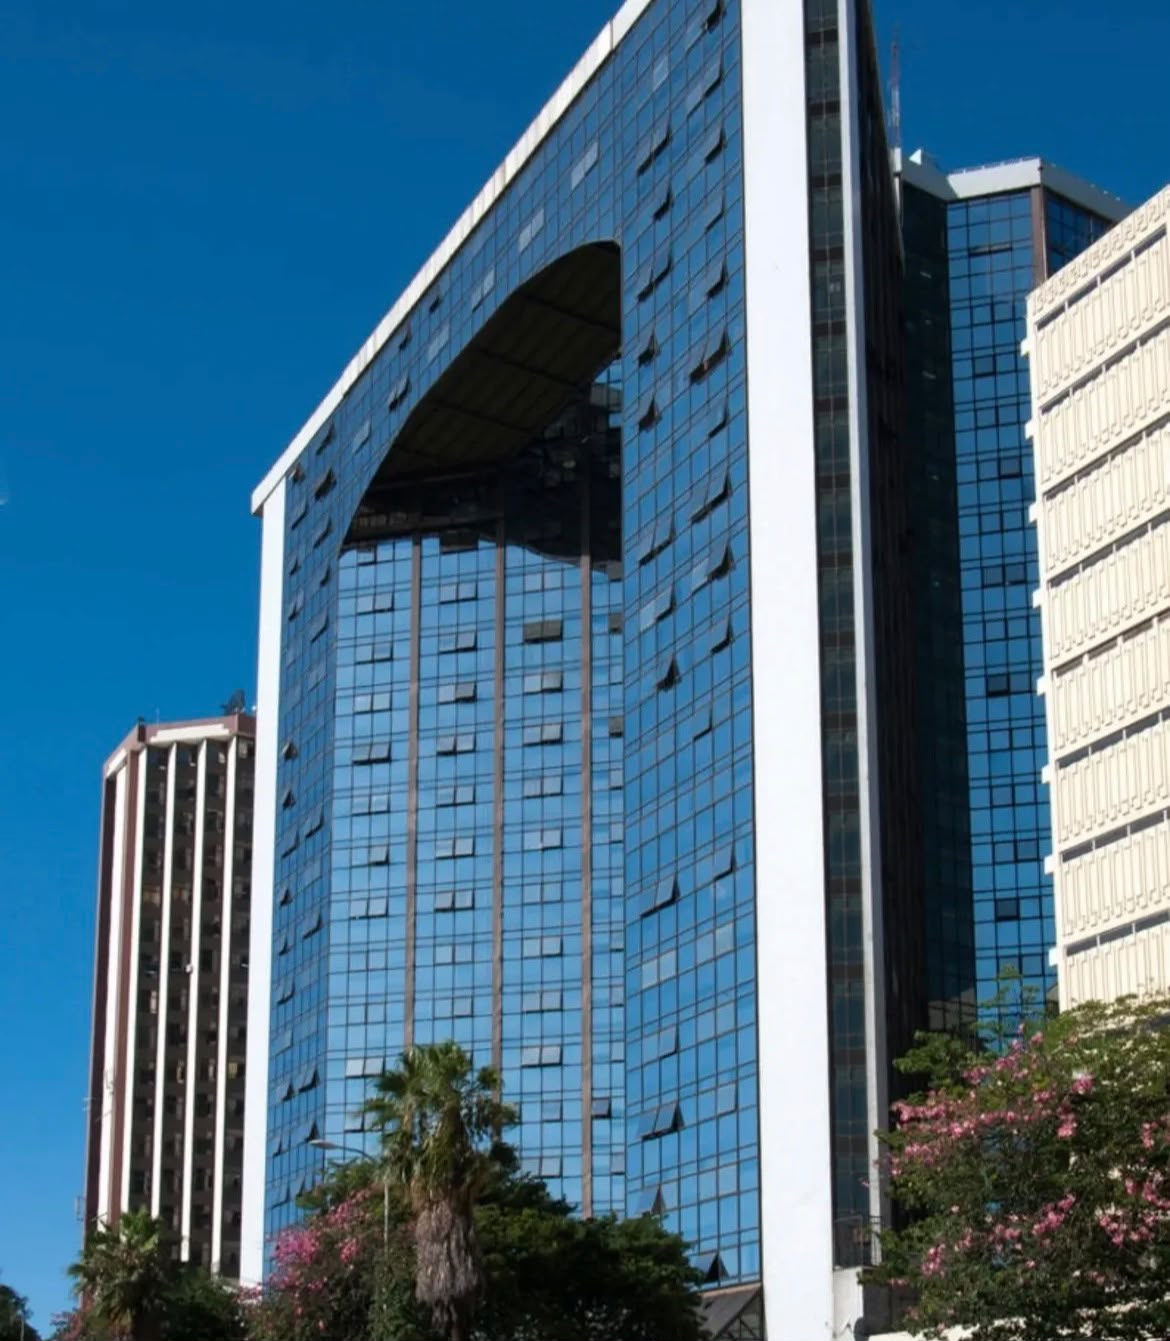
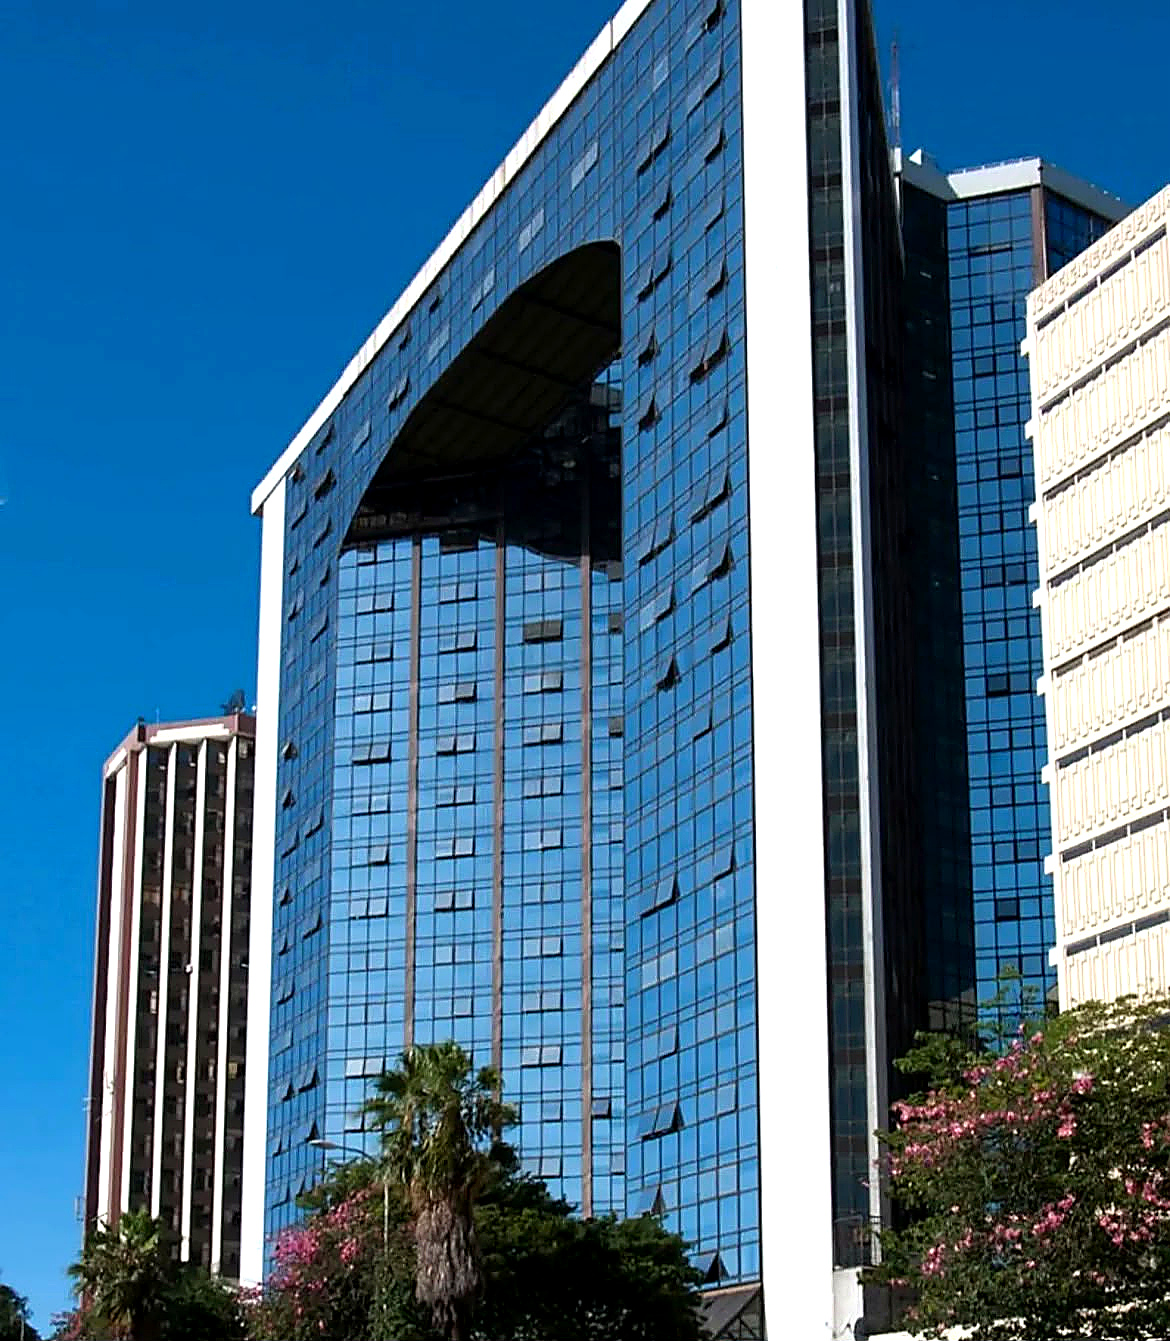
feat(media): enhance image sharpness, color grading, and card framing across sector heroes

Changed region(s): [[0.0, 0.0, 0.6769, 1.0], [0.6769, 0.0, 1.0, 1.0], [0.7692, 0.0917, 0.8, 0.1223]]

diff --git a/airbnb-security/index.html b/airbnb-security/index.html
@@ -30,7 +30,7 @@
 <link rel="preconnect" href="https://fonts.gstatic.com" crossorigin/>
 <link rel="stylesheet" href="https://fonts.googleapis.com/css2?family=Geist:wght@400;500;600;700&amp;display=swap"/>
 
-<link rel="stylesheet" href="/style.css?v=20260816g"/>
+<link rel="stylesheet" href="/style.css?v=20260816h"/>
 <script type="application/ld+json">{"@context":"https://schema.org","@type":"SecurityService","name":"Urban Eye Security","url":"https://urbaneyesecurity.co.ke/","logo":"https://urbaneyesecurity.co.ke/urban-eye-assets/Icon-only%20version.png","telephone":"+254 768 055 555","email":"info@urbaneyesecurity.co.ke","address":{"@type":"PostalAddress","streetAddress":"St. Ellis, Wabera Street, Nairobi CBD","addressLocality":"Nairobi","addressCountry":"KE"},"areaServed":["Nairobi","Kenya"],"slogan":"Smart Protection. Human Response."}</script>
 <script type="application/ld+json">{"@context":"https://schema.org","@type":"Service","name":"Airbnb & Short-Stay Security in Kenya","description":"Privacy-conscious security for short-stay properties, serviced apartments, furnished rentals, guest houses, and Airbnb hosts.","provider":{"@type":"Organization","name":"Urban Eye Security"},"areaServed":{"@type":"Country","name":"Kenya"},"serviceType":"Short-Stay Property Security","url":"https://urbaneyesecurity.co.ke/airbnb-security/"}</script>
 <script type="application/ld+json">{"@context":"https://schema.org","@type":"FAQPage","mainEntity":[{"@type":"Question","name":"Can I install cameras inside an Airbnb?","acceptedAnswer":{"@type":"Answer","text":"Urban Eye does not recommend indoor cameras for Airbnb-style guest spaces. The focus is exterior visibility, access control, emergency alerts, and guest-friendly protection."}},{"@type":"Question","name":"Can each guest get a unique access code?","acceptedAnswer":{"@type":"Answer","text":"Yes. Keyless access can allow temporary guest codes that are easier to change, revoke, or manage than physical keys."}},{"@type":"Question","name":"Can this help when the unit is vacant?","acceptedAnswer":{"@type":"Answer","text":"Yes. Door alerts, intrusion detection, fire alerts, and monitoring options can help protect the property between bookings."}},{"@type":"Question","name":"Do I need a site survey?","acceptedAnswer":{"@type":"Answer","text":"Yes. Every apartment, estate, access route, and host routine is different. A site review helps Urban Eye recommend the right setup."}}]}</script>
@@ -1012,6 +1012,6 @@
 </main>
 
 <div id="site-footer"></div>
-<script src="/js/includes.js?v=20260816g" defer></script>
+<script src="/js/includes.js?v=20260816h" defer></script>
 </body>
 </html>

diff --git a/corporate-risk-audit/index.html b/corporate-risk-audit/index.html
@@ -35,7 +35,7 @@
   <link rel="preconnect" href="https://fonts.gstatic.com" crossorigin/>
   <link rel="stylesheet" href="https://fonts.googleapis.com/css2?family=Geist:wght@400;500;600;700&amp;display=swap"/>
   
-  <link rel="stylesheet" href="/style.css?v=20260816g"/>
+  <link rel="stylesheet" href="/style.css?v=20260816h"/>
 
   <script type="application/ld+json">
   {"@context":"https://schema.org","@type":"SecurityService","name":"Urban Eye Security","url":"https://urbaneyesecurity.co.ke/","logo":"https://urbaneyesecurity.co.ke/urban-eye-assets/Icon-only%20version.png","telephone":"+254 768 055 555","email":"info@urbaneyesecurity.co.ke","address":{"@type":"PostalAddress","streetAddress":"St. Ellis, Wabera Street, Nairobi CBD","addressLocality":"Nairobi","addressCountry":"KE"},"areaServed":["Nairobi","Kenya"],"slogan":"Smart Protection. Human Response."}
@@ -62,11 +62,11 @@
 <main>
   <!-- Hero Section -->
   <section class="page-hero">
-    <div class="container hero-grid">
-      <div class="hero-content">
+    <div class="container sector-hero-inner">
+      <div class="sector-hero-copy reveal-up">
         <p class="section-label">Corporate Risk Audit</p>
         <h1>A written security report before you buy equipment.</h1>
-        <p class="hero-copy" style="font-size:17px; line-height:1.65; color:rgba(255,255,255,.9); margin-bottom:28px;">
+        <p style="font-size:17px; line-height:1.65; color:rgba(255,255,255,.9); margin-bottom:28px;">
           Urban Eye's Corporate Risk Audit is a documented site survey for commercial premises, logistics yards, construction sites, and estates needing rigorous risk visibility before allocating capital.
         </p>
 
@@ -80,15 +80,14 @@
         </div>
       </div>
 
-      <div class="hero-photo reveal-up">
+      <div class="sector-hero-visual reveal-up reveal-delay-1">
         <img
-          src="/urban-eye-assets/nairobi-commercial-skyline.jpg"
+          src="/urban-eye-assets/nairobi-commercial-skyline.webp"
           alt="Nairobi commercial skyline and business district corporate risk evaluation"
-          width="800"
-          height="600"
+          width="1170"
+          height="1341"
           loading="eager"
           decoding="async"
-          style="border-radius:14px; width:100%; height:auto; object-fit:cover; box-shadow:0 20px 40px rgba(0,0,0,0.3);"
         >
       </div>
     </div>
@@ -310,6 +309,6 @@
 </main>
 
   <div id="site-footer"></div>
-  <script src="/js/includes.js?v=20260816g" defer></script>
+  <script src="/js/includes.js?v=20260816h" defer></script>
 </body>
 </html>

diff --git a/residential-security/index.html b/residential-security/index.html
@@ -29,7 +29,7 @@
 <link rel="preconnect" href="https://fonts.gstatic.com" crossorigin/>
 <link rel="stylesheet" href="https://fonts.googleapis.com/css2?family=Geist:wght@400;500;600;700&amp;display=swap"/>
 
-<link rel="stylesheet" href="/style.css?v=20260816g"/>
+<link rel="stylesheet" href="/style.css?v=20260816h"/>
 
 <script type="application/ld+json">
 {
@@ -120,25 +120,24 @@
 
 <main>
   <section class="page-hero">
-    <div class="container hero-grid">
-      <div class="hero-content">
+    <div class="container sector-hero-inner">
+      <div class="sector-hero-copy reveal-up">
         <p class="section-label">Residential Estates &amp; Private Compounds</p>
         <h1>Layered perimeter detection and access control for gated estates and private residences.</h1>
-        <p class="hero-copy">A perimeter wall and a gate guard are not enough. Urban Eye engineers layered protection for gated communities, townhouses, private compounds, and family residences using smart wireless alarms, CCTV, and mobile alerts.</p>
+        <p>A perimeter wall and a gate guard are not enough. Urban Eye engineers layered protection for gated communities, townhouses, private compounds, and family residences using smart wireless alarms, CCTV, and mobile alerts.</p>
         <div class="hero-actions">
           <a onclick="return openServiceDrawer('residential-security','Residential Security','Design Your Protection Plan','Share a few details and Urban Eye will design layered protection for your home.')" class="btn btn-primary" href="/contact/?service=residential">Design Your Protection Plan</a>
           <a class="btn btn-outline-white" href="https://wa.me/254768055555">Chat on WhatsApp</a>
         </div>
       </div>
-      <div class="hero-photo reveal-up">
+      <div class="sector-hero-visual reveal-up reveal-delay-1">
         <img
-          src="/urban-eye-assets/nairobi-residential-estate.jpg"
+          src="/urban-eye-assets/nairobi-residential-estate.webp"
           alt="Gated townhouse community and residential estate security in Nairobi"
-          width="800"
-          height="600"
+          width="963"
+          height="1280"
           loading="eager"
           decoding="async"
-          style="border-radius:14px; width:100%; height:auto; object-fit:cover; box-shadow:0 20px 40px rgba(0,0,0,0.3);"
         >
       </div>
     </div>
@@ -299,6 +298,6 @@
   </section>
 </main>
 <div id="site-footer"></div>
-<script src="/js/includes.js?v=20260816g" defer></script>
+<script src="/js/includes.js?v=20260816h" defer></script>
 </body>
 </html>

diff --git a/office-security/index.html b/office-security/index.html
@@ -35,7 +35,7 @@
 <link rel="preconnect" href="https://fonts.gstatic.com" crossorigin/>
 <link rel="stylesheet" href="https://fonts.googleapis.com/css2?family=Geist:wght@400;500;600;700&amp;display=swap"/>
 
-<link rel="stylesheet" href="/style.css?v=20260816g"/>
+<link rel="stylesheet" href="/style.css?v=20260816h"/>
 <script type="application/ld+json">
 {"@context":"https://schema.org","@type":"SecurityService","name":"Urban Eye Security","url":"https://urbaneyesecurity.co.ke/","logo":"https://urbaneyesecurity.co.ke/urban-eye-assets/Icon-only%20version.png","telephone":"+254 768 055 555","email":"info@urbaneyesecurity.co.ke","address":{"@type":"PostalAddress","streetAddress":"St. Ellis, Wabera Street, Nairobi CBD","addressLocality":"Nairobi","addressCountry":"KE"},"areaServed":["Nairobi","Kenya"],"slogan":"Smart Protection. Human Response."}
 </script>
@@ -468,10 +468,10 @@
 
         <div class="office-hero-visual reveal-up reveal-delay-1">
           <img
-            src="/urban-eye-assets/nairobi-commercial-tower.jpg"
+            src="/urban-eye-assets/nairobi-commercial-tower.webp"
             alt="Modern commercial office tower and corporate business park in Nairobi"
-            width="800"
-            height="600"
+            width="1170"
+            height="1355"
             loading="eager"
             decoding="async"
           >
@@ -656,6 +656,6 @@
 
   <div id="site-footer"></div>
 
-  <script src="/js/includes.js?v=20260816g" defer></script>
+  <script src="/js/includes.js?v=20260816h" defer></script>
 </body>
 </html>

diff --git a/contact/index.html b/contact/index.html
@@ -35,7 +35,7 @@
 <link rel="preconnect" href="https://fonts.gstatic.com" crossorigin/>
 <link rel="stylesheet" href="https://fonts.googleapis.com/css2?family=Geist:wght@400;500;600;700&amp;display=swap"/>
 
-<link rel="stylesheet" href="/style.css?v=20260816g"/>
+<link rel="stylesheet" href="/style.css?v=20260816h"/>
 <script type="application/ld+json">
 {"@context":"https://schema.org","@type":"SecurityService","name":"Urban Eye Security","url":"https://urbaneyesecurity.co.ke/","logo":"https://urbaneyesecurity.co.ke/urban-eye-assets/Icon-only%20version.png","telephone":"+254 768 055 555","email":"info@urbaneyesecurity.co.ke","address":{"@type":"PostalAddress","streetAddress":"St. Ellis, Wabera Street, Nairobi CBD","addressLocality":"Nairobi","addressCountry":"KE"},"areaServed":["Nairobi","Kenya"],"slogan":"Smart Protection. Human Response."}
 </script>
@@ -441,6 +441,6 @@ document.addEventListener("DOMContentLoaded", () => {
   goToFormStep(1, CONTACT_FORM_CONFIG);
 });
 </script>
-<script src="/js/includes.js?v=20260816g" defer></script>
+<script src="/js/includes.js?v=20260816h" defer></script>
 </body>
 </html>

diff --git a/cctv-installation/index.html b/cctv-installation/index.html
@@ -35,7 +35,7 @@
 <link rel="preconnect" href="https://fonts.gstatic.com" crossorigin/>
 <link rel="stylesheet" href="https://fonts.googleapis.com/css2?family=Geist:wght@400;500;600;700&amp;display=swap"/>
 
-<link rel="stylesheet" href="/style.css?v=20260816g"/>
+<link rel="stylesheet" href="/style.css?v=20260816h"/>
 <script type="application/ld+json">
 {"@context":"https://schema.org","@type":"SecurityService","name":"Urban Eye Security","url":"https://urbaneyesecurity.co.ke/","logo":"https://urbaneyesecurity.co.ke/urban-eye-assets/Icon-only%20version.png","telephone":"+254 768 055 555","email":"info@urbaneyesecurity.co.ke","address":{"@type":"PostalAddress","streetAddress":"St. Ellis, Wabera Street, Nairobi CBD","addressLocality":"Nairobi","addressCountry":"KE"},"areaServed":["Nairobi","Kenya"],"slogan":"Smart Protection. Human Response."}
 </script>
@@ -243,6 +243,6 @@
     </section>
   </main>
 <div id="site-footer"></div>
-<script src="/js/includes.js?v=20260816g" defer></script>
+<script src="/js/includes.js?v=20260816h" defer></script>
 </body>
 </html>

diff --git a/access-control/index.html b/access-control/index.html
@@ -30,7 +30,7 @@
 <link rel="preconnect" href="https://fonts.gstatic.com" crossorigin/>
 <link rel="stylesheet" href="https://fonts.googleapis.com/css2?family=Geist:wght@400;500;600;700&amp;display=swap"/>
 
-<link rel="stylesheet" href="/style.css?v=20260816g"/>
+<link rel="stylesheet" href="/style.css?v=20260816h"/>
 <script type="application/ld+json">
 {"@context":"https://schema.org","@type":"SecurityService","name":"Urban Eye Security","url":"https://urbaneyesecurity.co.ke/","logo":"https://urbaneyesecurity.co.ke/urban-eye-assets/Icon-only%20version.png","telephone":"+254 768 055 555","email":"info@urbaneyesecurity.co.ke","address":{"@type":"PostalAddress","streetAddress":"St. Ellis, Wabera Street, Nairobi CBD","addressLocality":"Nairobi","addressCountry":"KE"},"areaServed":["Nairobi","Kenya"],"slogan":"Smart Protection. Human Response."}
 </script>
@@ -750,6 +750,6 @@
   </section>
 </main>
 <div id="site-footer"></div>
-<script src="/js/includes.js?v=20260816g" defer></script>
+<script src="/js/includes.js?v=20260816h" defer></script>
 </body>
 </html>

diff --git a/professional-monitoring/index.html b/professional-monitoring/index.html
@@ -35,7 +35,7 @@
 <link rel="preconnect" href="https://fonts.gstatic.com" crossorigin/>
 <link rel="stylesheet" href="https://fonts.googleapis.com/css2?family=Geist:wght@400;500;600;700&amp;display=swap"/>
 
-<link rel="stylesheet" href="/style.css?v=20260816g"/>
+<link rel="stylesheet" href="/style.css?v=20260816h"/>
 <script type="application/ld+json">
 {"@context":"https://schema.org","@type":"SecurityService","name":"Urban Eye Security","url":"https://urbaneyesecurity.co.ke/","logo":"https://urbaneyesecurity.co.ke/urban-eye-assets/Icon-only%20version.png","telephone":"+254 768 055 555","email":"info@urbaneyesecurity.co.ke","address":{"@type":"PostalAddress","streetAddress":"St. Ellis, Wabera Street, Nairobi CBD","addressLocality":"Nairobi","addressCountry":"KE"},"areaServed":["Nairobi","Kenya"],"slogan":"Smart Protection. Human Response."}
 </script>
@@ -751,6 +751,6 @@
   </section>
 </main>
 <div id="site-footer"></div>
-<script src="/js/includes.js?v=20260816g" defer></script>
+<script src="/js/includes.js?v=20260816h" defer></script>
 </body>
 </html>

diff --git a/construction-site-security/index.html b/construction-site-security/index.html
@@ -35,7 +35,7 @@
   <link rel="preconnect" href="https://fonts.gstatic.com" crossorigin/>
   <link rel="stylesheet" href="https://fonts.googleapis.com/css2?family=Geist:wght@400;500;600;700&amp;display=swap"/>
 
-  <link rel="stylesheet" href="/style.css?v=20260816g"/>
+  <link rel="stylesheet" href="/style.css?v=20260816h"/>
 <script type="application/ld+json">
 {"@context":"https://schema.org","@type":"SecurityService","name":"Urban Eye Security","url":"https://urbaneyesecurity.co.ke/","logo":"https://urbaneyesecurity.co.ke/urban-eye-assets/Icon-only%20version.png","telephone":"+254 768 055 555","email":"info@urbaneyesecurity.co.ke","address":{"@type":"PostalAddress","streetAddress":"St. Ellis, Wabera Street, Nairobi CBD","addressLocality":"Nairobi","addressCountry":"KE"},"areaServed":["Nairobi","Kenya"],"slogan":"Smart Protection. Human Response."}
 </script>
@@ -315,6 +315,6 @@
 
   <div id="site-footer"></div>
 
-  <script src="/js/includes.js?v=20260816g" defer></script>
+  <script src="/js/includes.js?v=20260816h" defer></script>
 </body>
 </html>

diff --git a/financial-services/index.html b/financial-services/index.html
@@ -35,7 +35,7 @@
   <link rel="preconnect" href="https://fonts.gstatic.com" crossorigin/>
   <link rel="stylesheet" href="https://fonts.googleapis.com/css2?family=Geist:wght@400;500;600;700&amp;display=swap"/>
 
-  <link rel="stylesheet" href="/style.css?v=20260816g"/>
+  <link rel="stylesheet" href="/style.css?v=20260816h"/>
 
   <script type="application/ld+json">
   {"@context":"https://schema.org","@type":"SecurityService","name":"Urban Eye Security","url":"https://urbaneyesecurity.co.ke/","logo":"https://urbaneyesecurity.co.ke/urban-eye-assets/Icon-only%20version.png","telephone":"+254 768 055 555","email":"info@urbaneyesecurity.co.ke","address":{"@type":"PostalAddress","streetAddress":"St. Ellis, Wabera Street, Nairobi CBD","addressLocality":"Nairobi","addressCountry":"KE"},"areaServed":["Nairobi","Kenya"],"slogan":"Smart Protection. Human Response."}
@@ -715,6 +715,6 @@
 </main>
 
 <div id="site-footer"></div>
-<script src="/js/includes.js?v=20260816g" defer></script>
+<script src="/js/includes.js?v=20260816h" defer></script>
 </body>
 </html>

diff --git a/commercial-fire-alarm-systems/index.html b/commercial-fire-alarm-systems/index.html
@@ -30,7 +30,7 @@
 <link rel="preconnect" href="https://fonts.gstatic.com" crossorigin/>
 <link rel="stylesheet" href="https://fonts.googleapis.com/css2?family=Geist:wght@400;500;600;700&amp;display=swap"/>
 
-<link rel="stylesheet" href="/style.css?v=20260816g"/>
+<link rel="stylesheet" href="/style.css?v=20260816h"/>
 <script type="application/ld+json">
 {"@context":"https://schema.org","@type":"SecurityService","name":"Urban Eye Security","url":"https://urbaneyesecurity.co.ke/","logo":"https://urbaneyesecurity.co.ke/urban-eye-assets/Icon-only%20version.png","telephone":"+254 768 055 555","email":"info@urbaneyesecurity.co.ke","address":{"@type":"PostalAddress","streetAddress":"St. Ellis, Wabera Street, Nairobi CBD","addressLocality":"Nairobi","addressCountry":"KE"},"areaServed":["Nairobi","Kenya"],"slogan":"Smart Protection. Human Response."}
 </script>
@@ -1026,6 +1026,6 @@
 </main>
 
 <div id="site-footer"></div>
-<script src="/js/includes.js?v=20260816g" defer></script>
+<script src="/js/includes.js?v=20260816h" defer></script>
 </body>
 </html>

diff --git a/retail-storefronts/index.html b/retail-storefronts/index.html
@@ -30,7 +30,7 @@
 <link rel="preconnect" href="https://fonts.gstatic.com" crossorigin/>
 <link rel="stylesheet" href="https://fonts.googleapis.com/css2?family=Geist:wght@400;500;600;700&amp;display=swap"/>
 
-<link rel="stylesheet" href="/style.css?v=20260816g"/>
+<link rel="stylesheet" href="/style.css?v=20260816h"/>
 <script type="application/ld+json">
 {"@context":"https://schema.org","@type":"SecurityService","name":"Urban Eye Security","url":"https://urbaneyesecurity.co.ke/","logo":"https://urbaneyesecurity.co.ke/urban-eye-assets/Icon-only%20version.png","telephone":"+254 768 055 555","email":"info@urbaneyesecurity.co.ke","address":{"@type":"PostalAddress","streetAddress":"St. Ellis, Wabera Street, Nairobi CBD","addressLocality":"Nairobi","addressCountry":"KE"},"areaServed":["Nairobi","Kenya"],"slogan":"Smart Protection. Human Response."}
 </script>
@@ -719,6 +719,6 @@
 </main>
 
 <div id="site-footer"></div>
-<script src="/js/includes.js?v=20260816g" defer></script>
+<script src="/js/includes.js?v=20260816h" defer></script>
 </body>
 </html>
